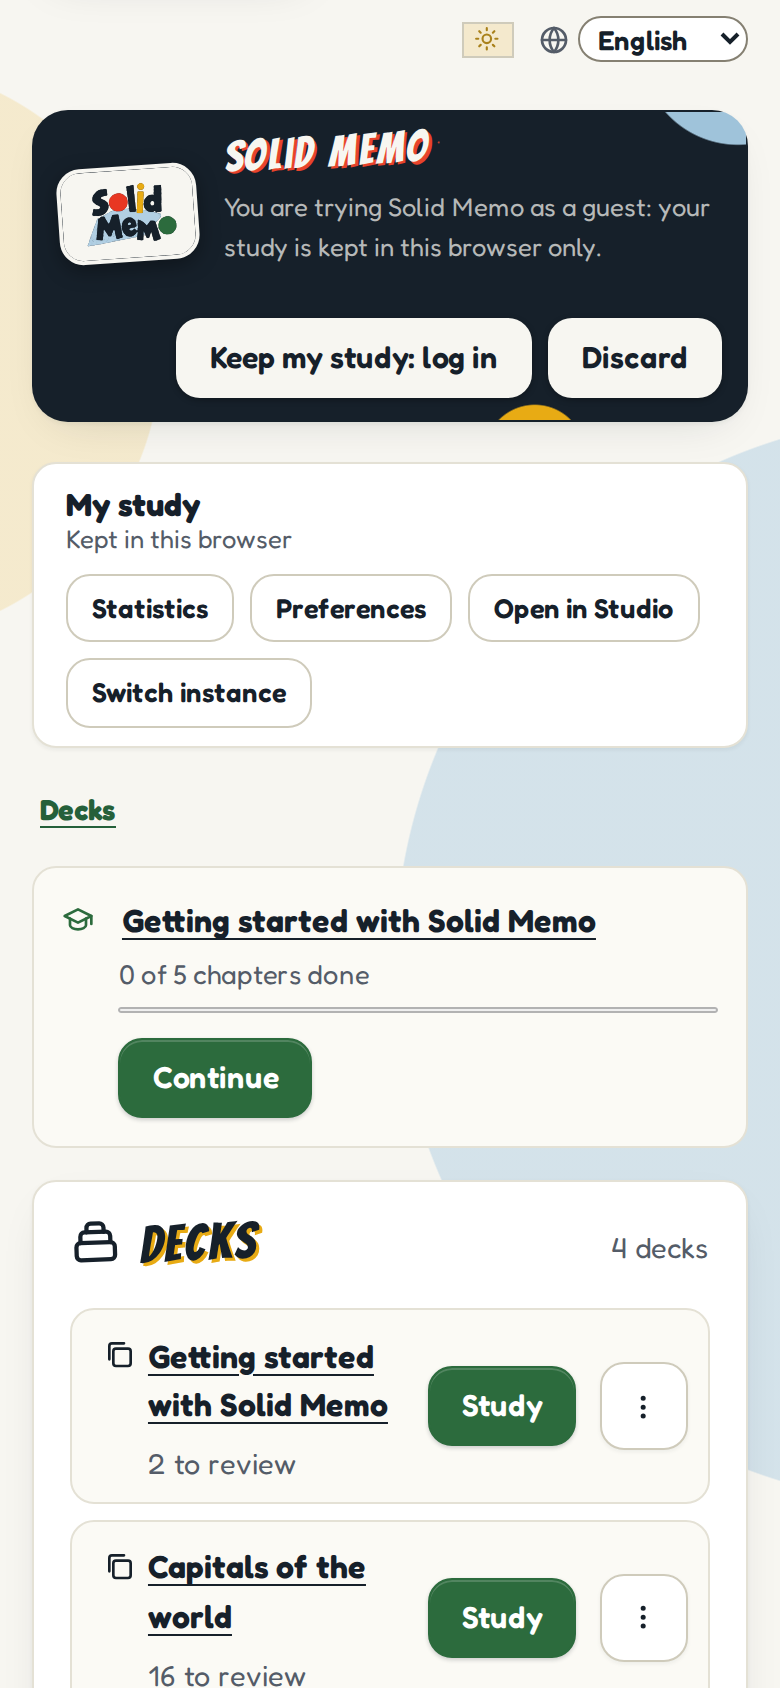
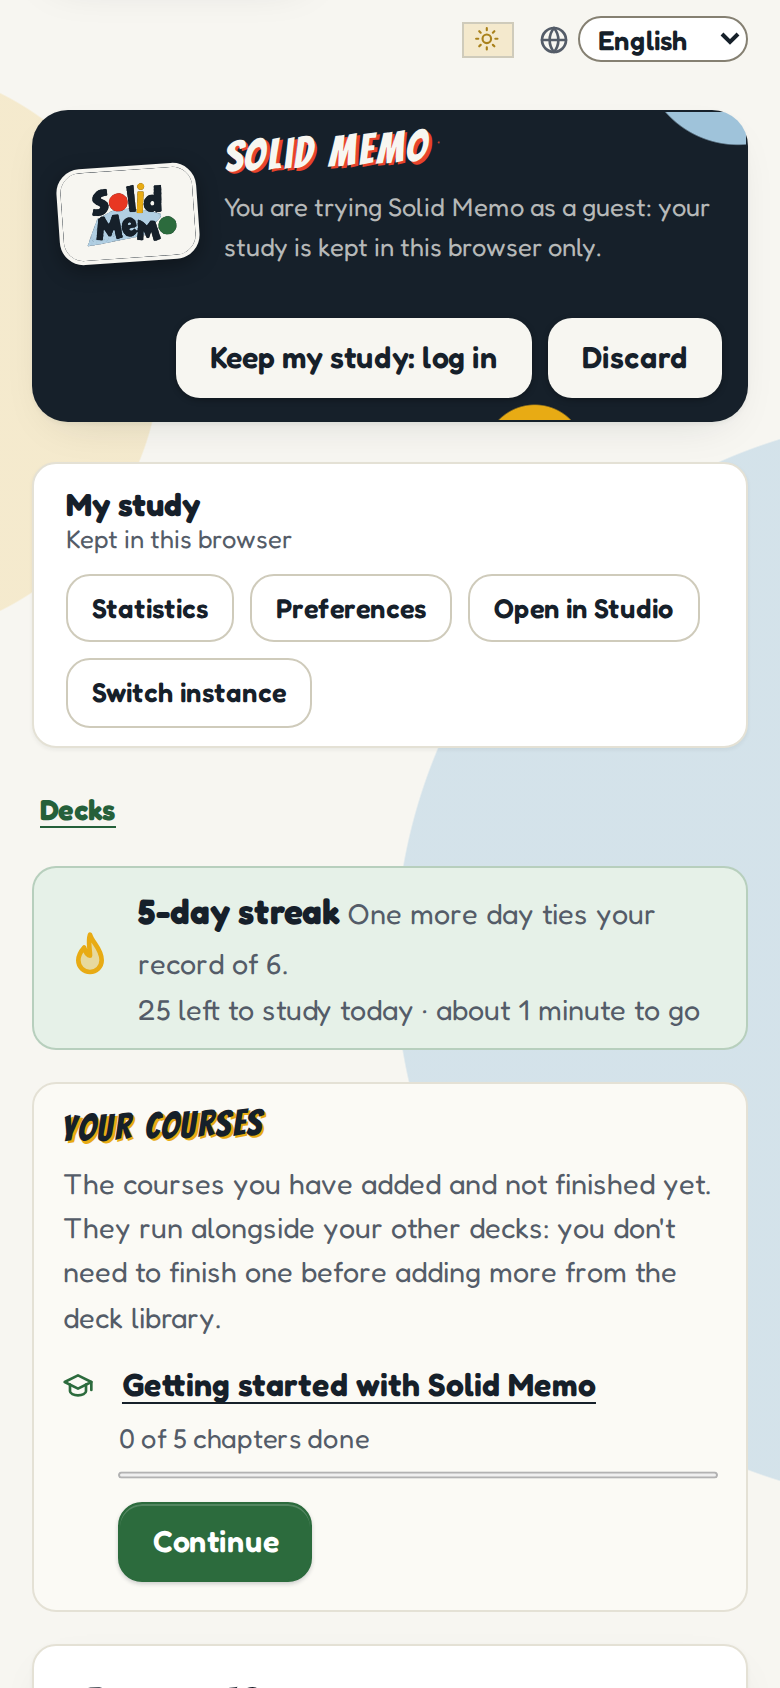
fix(2026-solid-memo): bring the figures up to date for 6.29.18
The talk was written on 2026-10-22 and the app has moved on: the
library holds 115 entries with 9 courses, the Capitals deck is at
version 4 with Wikidata subjects, the deck list screenshot was taken
again, and GitHub Sponsors is live. The notes also said more than the
repository backs: axe runs on a phone only for the guest and reload
journeys, Zenodo has not archived every release, and the servers are
pinned in different ways. The notes now point to the practitioners'
talk for a Solid audience.

diff --git a/2026-solid-memo/slides.md b/2026-solid-memo/slides.md
@@ -26,7 +26,9 @@ The tagline under the title is the app's own: "Spaced-repetition flashcards that
 
 Everything in this talk is open, at github.com/solid-memo/talks: the slides and these notes under CC BY 4.0, the app's screenshots and logo under MIT.
 
-(If you aren't Anton: the first-person story in these notes is the maintainer's. Tell it as his, or in your own words. Check the figures the notes mark before the talk: they were true on October 22, 2026.)
+(If you aren't Anton: the first-person story in these notes is the maintainer's. Tell it as his, or in your own words. Check the figures the notes mark before the talk: they were checked again on November 4, 2026, at version 6.29.18.)
+
+(For an audience that already builds on Solid, give the other talk, "Nine server setups, no server of its own", in 2026-solid-memo-practitioners.)
 -->
 
 ---
@@ -82,7 +84,7 @@ Spaced repetition in one breath: you study flashcards, and each card comes back 
 
 The audience matters. Solid Memo isn't a tool for Solid developers. It's for anyone who wants to remember what they learn. If Solid is going to be a showcase, it has to work for people who've never heard of it.
 
-(The wording here is the app's own: README and the About page.)
+(The wording here is the app's own: "just before you would forget it" is from the README, "a few minutes a day" from the About page, and "a day, then a few days, then weeks" from the user guide.)
 -->
 
 ---
@@ -121,14 +123,14 @@ Part one. To see how an app can have no server, you need to know what a Solid po
 
 ## What a Solid pod is
 
-> Your own online storage, run by a pod provider you choose, or by yourself. Apps that follow the Solid standards keep your data there, and **you decide who may read it.**
+> Your own online storage, run by a Pod provider you choose, or by yourself. Apps that follow the Solid standards keep your data there, and **you decide who may read it.**
 
 Solid is a set of open specifications from the W3C community for storing your data apart from the apps that use it.
 
 <!--
 The definition is from Solid Memo's user guide.
 
-Think of it as a personal data folder on the web that any app following the Solid standards can use, with your permission. You pick where it lives: a provider such as solidcommunity.net or Inrupt's, or your own server.
+Think of it as a personal data folder on the web that any app following the Solid standards can use, with your permission. You pick where it lives: a provider such as solidcommunity.net, solidweb.me or Inrupt's PodSpaces, or your own server. (If someone asks which to pick: Inrupt says PodSpaces is a developer preview, not for personal data.)
 
 Solid is the set of specifications, started by Tim Berners-Lee. You don't need to know them to follow this talk; the next slide shows what matters.
 -->
@@ -146,7 +148,7 @@ Solid is the set of specifications, started by Tim Berners-Lee. You don't need t
 <!--
 The key idea. On the left, apps. On the right, pods. The app is just a web page. It doesn't store your data: it reads and writes your pod directly from your browser.
 
-Logging in: you type your WebID, a web address that names you. The app reads your profile, finds your identity provider, and sends you there to log in, with Solid-OIDC, which is OpenID Connect plus DPoP, which ties each token to a key in your browser. You type your password on your provider's own page. Solid Memo never sees it, and there's no sign-up form.
+Logging in: you type your WebID, a web address that names you, and the app reads your profile, finds your identity provider and sends you there; or you press the button of a suggested provider, and it sends you straight there. Either way you log in with Solid-OIDC, which is OpenID Connect plus DPoP, which ties each token to a key in your browser. You type your password on your provider's own page. Solid Memo never sees it, and there's no sign-up form.
 
 Because the data isn't in the app, another app can read the same pod. And when you stop using the app, your history stays where it is.
 -->
@@ -166,18 +168,19 @@ Because the data isn't in the app, another app can read the same pod. And when y
     solid-memo:frontLabel "Country or territory"@en , "Land eller territorium"@sv ;
     solid-memo:backLabel "Capital"@en , "Huvudstad"@sv ;
     dcterms:created "2026-09-22T10:40:42.499Z"^^xsd:dateTime ;
+    dcterms:subject <http://www.wikidata.org/entity/Q224> ;
     solid-memo:back "Zagreb"@en , "Zagreb"@sv ;
     solid-memo:front "Croatia"@en , "Kroatien"@sv .
 ```
 
-<span class="muted">From the deck Capitals of the world, version 3, at solid-memo.com/decks/</span>
+<span class="muted">From the deck Capitals of the world, version 4, at solid-memo.com/decks/capitals-of-the-world/v4.ttl</span>
 
 <!--
-This is a real card, from the deck Capitals of the world. Shortened only: each pair of languages is on one line, and only the prefixes this card uses are kept.
+This is a real card, from the deck Capitals of the world, version 4. Shortened: the card has every text in six languages, English, Swedish, Korean, German, Spanish and French, and the slide shows two of them per line; it names two Wikidata subjects, and the slide shows Croatia's; only the prefixes this card uses are kept.
 
 The format is Turtle, a plain-text way to write RDF, the W3C's model for linked data, where every statement is a subject, a property and a value.
 
-Three things to notice. First, it's text you can read. Second, every word with a colon is a web address: solid-memo:Card is defined at solid-memo.com/ns/vocab. Third, every value has a language tag, so one card holds every language.
+Three things to notice. First, it's text you can read. Second, every word with a colon is a web address: solid-memo:Card is defined at solid-memo.com/ns/vocab. Third, every value has a language tag, so one card holds every language. And dcterms:subject points at Wikidata's Croatia: the card says what it's about with an address the whole web shares.
 
 This isn't a row in my database. It's a document on the web, and any RDF tool can read it. The vocabulary and the SHACL shapes that describe valid data are published too.
 -->
@@ -298,7 +301,7 @@ Part two: what the app is like for a learner. Screenshots, from phones, since th
 
 Log in later, and move it into your own pod.
 
-![A guest's deck list on a phone: a banner saying the study is kept in this browser only, with buttons to log in and keep it or to discard it, the course Getting started with Solid Memo to continue, then the decks, each with how many cards are left to review and a Study button](images/decks.png)
+![A guest's deck list on a phone: a banner saying the study is kept in this browser only, with buttons to log in and keep it or to discard it, the study's own buttons, a 5-day streak with 25 cards left for today, and the course Getting started with Solid Memo to continue](images/decks.png)
 
 <!--
 The first screen a newcomer sees has a button: Try it without logging in. No account, no pod, nothing to sign.
@@ -338,16 +341,16 @@ Even that choice is linked data in your pod, not a setting on a server.
 
 ## From paintings to Vim to Korean
 
-**110** in the library: 105 decks and 5 courses.
+**115** in the library: 106 decks and 9 courses.
 
 The app speaks **six languages**: English, Swedish, Korean, German, Spanish and French.
 
 ![The deck library on a phone, searched for famous: the decks found, each with its number of cards and a Preview button, one marked Already imported, two checked, and an Import 2 decks button](images/library.png)
 
 <!--
-The library, as of this talk: 110 entries, 105 flashcard decks and 5 courses. Check the number again before you give the talk; it grows.
+The library, as of November 4, 2026: 115 entries, 106 flashcard decks and 9 courses, about 19,000 cards in their newest versions. Check the number again before you give the talk; it grows.
 
-The range is the point. HTTP status codes and Vim commands. The brightest stars and the periodic table. Famous paintings and the Rijksmuseum collection. Everyday Korean phrases, chess openings, organs of the human body, Eurovision winners.
+The range is the point. HTTP status codes and Vim commands. The brightest stars and the periodic table. Famous paintings and the Rijksmuseum collection. Everyday Korean phrases, chess openings, regions of the brain, Eurovision winners.
 
 The app is in six languages (check again before the talk), and every library deck's newest version has its title and description in all six. Arabic decks show their text right to left.
 
@@ -373,7 +376,7 @@ Courses are chapters of short steps: a bit of theory, then multiple-choice quest
 
 The twist: every question becomes a card in your deck, so when you finish the course, you keep studying it.
 
-The five courses now: Getting started with Solid Memo, which every newcomer is offered; Korean at the Table; Solid fundamentals; the Standard for Public Code; and Swedish Driving License B: Theory. Check the list again before the talk; it grows.
+The nine courses now: Getting started with Solid Memo, which every newcomer is offered; Solid fundamentals; Korean at the Table; Reading Hangul; Web accessibility with WCAG 2.2; Open licenses; DCAT and DCAT-AP; the Standard for Public Code; and Swedish Driving License B: Theory. Check the list again before the talk; it grows.
 
 A course isn't a new kind of thing in the pod. It's a library release with an outline.
 -->
@@ -415,7 +418,7 @@ Free for anyone means usable by anyone.
 
 The aim is WCAG 2.2 at level AA. It's an aim, not a claim of conformance: there's been no full audit, and there's no recorded screen-reader pass yet. The docs list the gaps.
 
-What is checked: the user journeys run axe on every screen a step ends on, in light and dark, on desktop and on a phone, and a violation fails the build. The list of allowed exceptions is empty.
+What is checked: every user journey runs axe on every screen a step ends on, in Chromium, and the guest and reload journeys again on a phone. Theme tours check every screen in dark mode too, and the contrast of the other palettes. A violation fails the build, and the list of allowed exceptions is empty.
 
 (Check these figures again before the talk.) There are four palettes, including high contrast at 7:1 and a color-blind friendly one, four text sizes, reduced motion, and every text is marked with its language, so Arabic reads right to left.
 -->
@@ -510,7 +513,7 @@ So even publishing a deck needs no server of mine.
 
 ## Built to outlast its maintainer
 
-- A **DOI** at Zenodo for every release
+- A **DOI** at Zenodo for its releases
 - The source preserved in **Software Heritage**
 - A written plan for the **domain** if the maintainer steps away
 - What other people's data points at, kept online for at least three years after
@@ -518,7 +521,7 @@ So even publishing a deck needs no server of mine.
 <!--
 If you're going to point at a project as a showcase, it should still be there in five years.
 
-Every release gets a DOI at Zenodo, and the source is preserved in Software Heritage.
+Zenodo archives the releases and gives each a DOI, with one DOI that always resolves to the latest. The source is preserved in Software Heritage.
 
 The domain matters more than you'd think: people's pods hold data that points at solid-memo.com/ns and /decks. GOVERNANCE.md says what happens if I step away: the organization and the domain go to an active co-maintainer, or if there's none, the repository is archived and I keep the domain renewed, with the vocabulary and the decks still served, for at least three years.
 -->
@@ -551,7 +554,9 @@ Solid is a standard, and the app is only as good as the servers it meets. So eve
 
 Four more are advisory: CSS 8 alpha, Pivot, which is the server behind solidcommunity.net, Nextcloud with its Solid app, and the JavaScript Solid Server. They get a start-up check on every pull request, and the full suite weekly and whenever a push to main changes the app's code. Their failures are reported, not a gate.
 
-Every server is pinned: the Community Solid Server images by digest, the others built in the repository from a lockfile or a commit, on base images pinned by digest.
+Every server is pinned: the Community Solid Server images by digest, and the ACP setup on the same image; Node Solid Server, Pivot and JSS built in the repository from a lockfile, and Nextcloud's Solid app from a commit, all on base images pinned by digest.
+
+Each advisory server keeps a list of the tests it fails, with the reason for each: JSS 78, Nextcloud 27. Pivot and the CSS 8 alpha pass everything.
 
 Check the number of server setups again before the talk.
 -->
@@ -668,13 +673,11 @@ Try it: scan the first code. Press "Try it without logging in" and you're studyi
 
 Write a deck: take the Getting started course, then open the Studio.
 
-Contribute: issues labeled good first issue, translations, decks, and interop reports from pod servers I don't test yet. Everything is at github.com/solid-memo.
+Contribute: bug reports and ideas, translations, decks, and interop reports from pod servers I don't test yet; there's an issue form for each. Everything is at github.com/solid-memo.
 
 Or build your own app the same way: static files, the user's pod, no server.
 
-(Before the talk, check that the sponsor page answers.)
-
-And the second code: sponsor the domain. 123.75 kronor a year is the one thing that keeps Solid Memo depending on my wallet. Sponsoring it makes the app cost its maintainer nothing.
+And the second code: sponsor the domain. The sponsor page has been live since November 4, 2026, and GOVERNANCE.md says what donations pay for: the domain first, then the maintainer's time, and they buy no say over the roadmap. 123.75 kronor a year is the one thing that keeps Solid Memo depending on my wallet. Sponsoring it makes the app cost its maintainer nothing.
 -->
 
 ---
@@ -695,8 +698,8 @@ Thank you. Questions?
 
 Questions people tend to ask, and short answers:
 - "So there are servers after all?" Yes: GitHub Pages, your pod, your login provider. None of them is mine, and none keeps a copy of your study.
-- "What if my pod provider closes?" Your data is RDF in open formats. Copy it to another pod, and the app works there too.
-- "Offline? Reminders?" No service worker and no push yet: the app works while it's open.
+- "What if my pod provider closes?" Your data is RDF in documented, open formats, with the vocabulary and shapes published. You can copy it to another pod.
+- "Offline? Reminders?" No service worker and no push: the app works while it's open.
 - "Why not just localStorage?" Because then the data is stuck in one browser. Guest mode is exactly that, and it offers to move into a pod.
-- "Bus factor?" One maintainer, no funding. There's a written plan for stepping away, in GOVERNANCE.md.
+- "Bus factor?" One maintainer, and no funding beyond GitHub Sponsors, which opened in November 2026. There's a written plan for stepping away, in GOVERNANCE.md.
 -->
